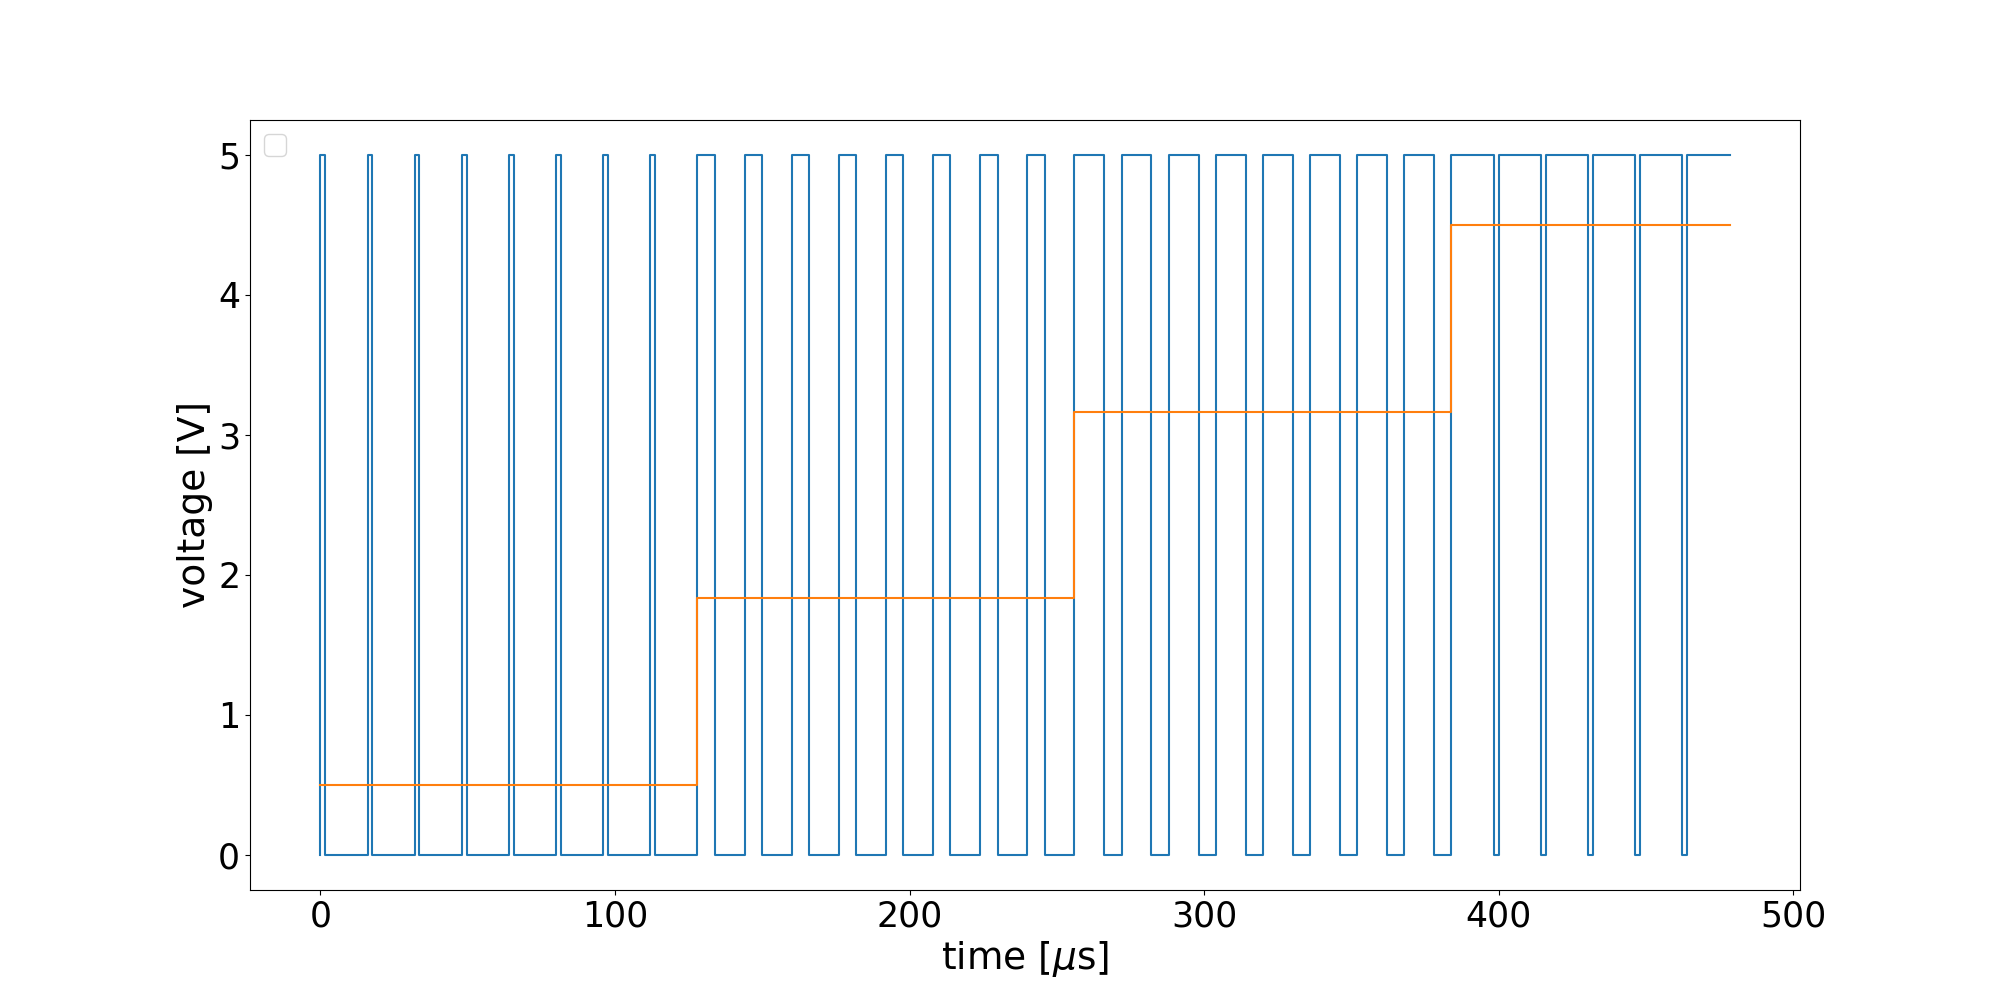
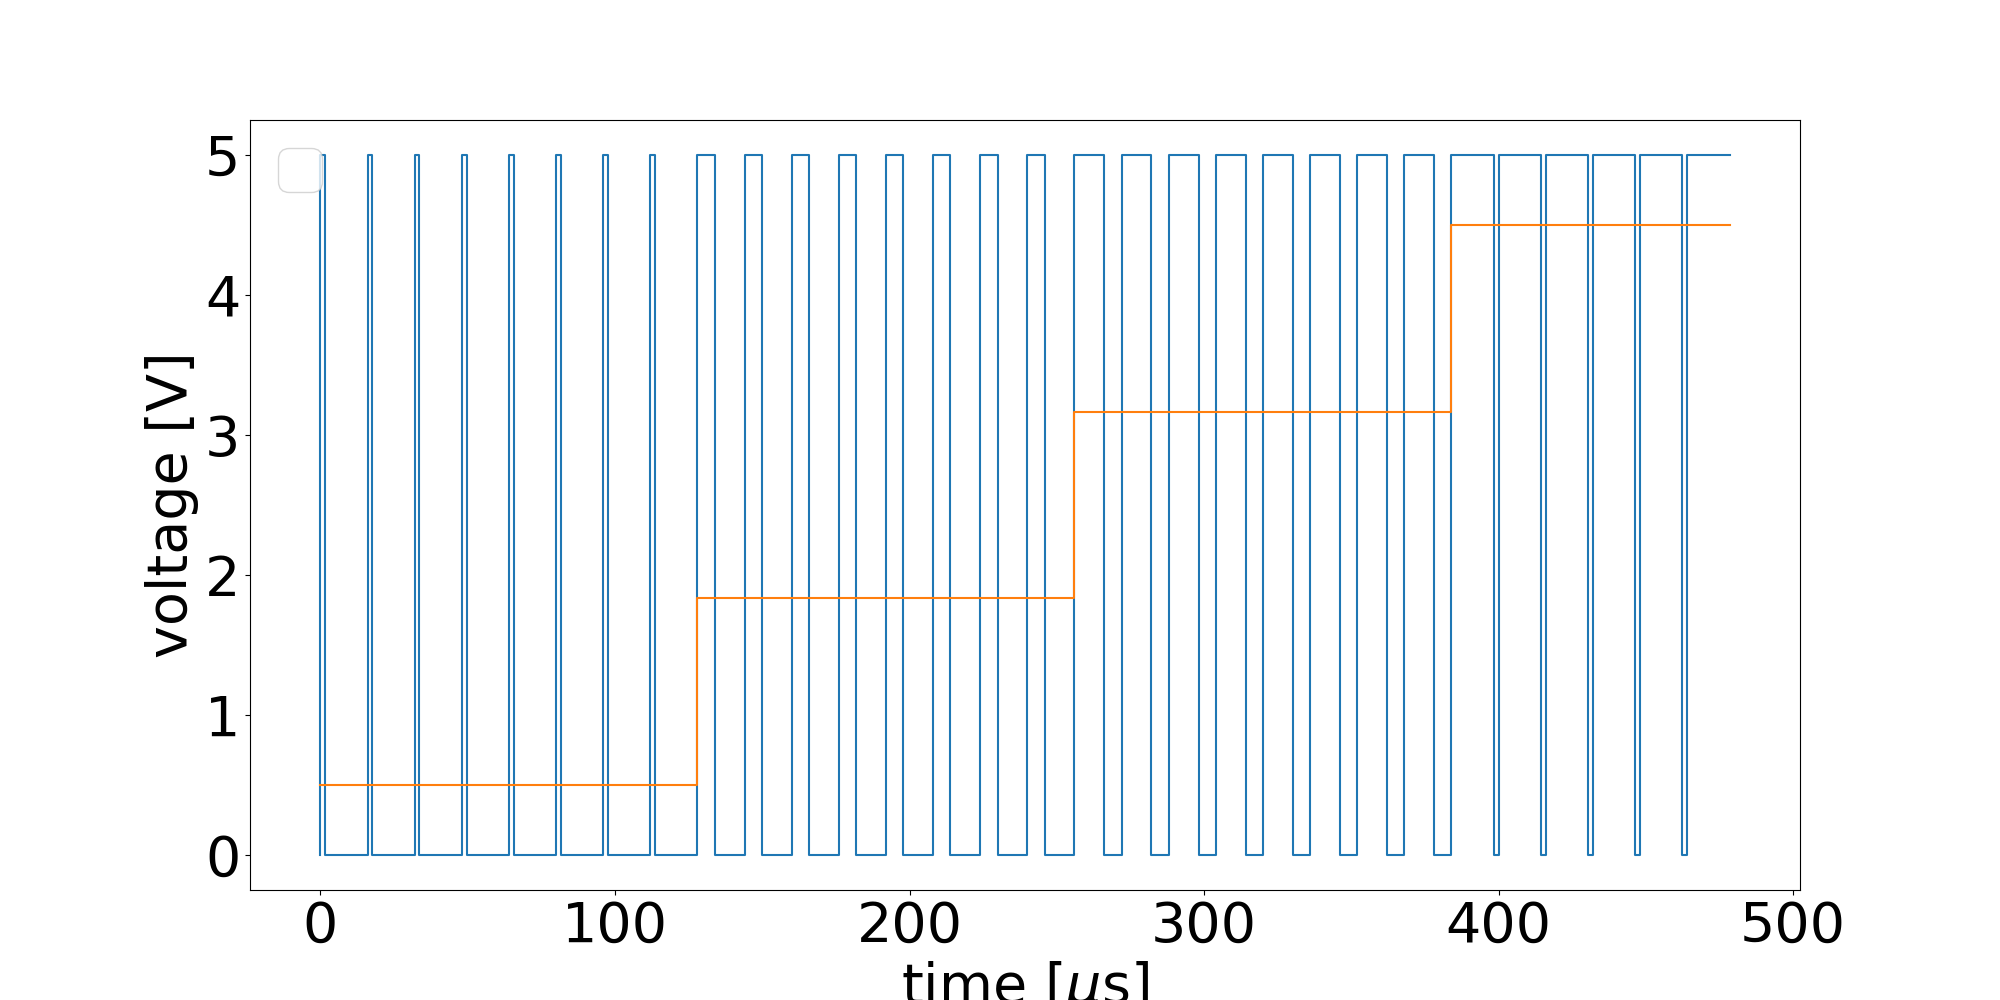
auto

diff --git a/chapters/4 - methods and results.tex b/chapters/4 - methods and results.tex
@@ -220,7 +220,7 @@ The LED illumination angle varies between $45^0-120^0$. Since emitted light is i
 \subsection{Arduino microcontroller}
 \begin{figure}[htbp]
 	\centering
-	\fbox{\includegraphics[scale=0.11]{\main/images/4 - methods and results/duty_cycle.png}}
+	\fbox{\includegraphics[scale=0.15]{\main/images/4 - methods and results/duty_cycle.png}}
 	\caption[The PWM analog voltage]{The PWM analog voltage}
 	\label{fig:duty_cycle}
 \end{figure}
@@ -294,7 +294,7 @@ It can be seen from eq.~\ref{eqn:Q} that when $Q<0$ the coupled noise power is l
 
 \begin{figure}[htbp]
 	\centering
-	\fbox{\includegraphics[scale=0.15]{\main/images/4 - methods and results/Q factor.png}}
+	\fbox{\includegraphics[scale=0.2]{\main/images/4 - methods and results/Q factor.png}}
 	\caption[The torsional pendulum Q factor]{The torsional pendulum Q factor}
 	\label{fig:Q factor}
 \end{figure} 

diff --git a/python/dutycycle.py b/python/dutycycle.py
@@ -5,12 +5,12 @@ import matplotlib.pyplot as plt
 
 def fonts_define(xtitle,ytitle,lgd,font=25):
     plt.figure(figsize=(20,10))
-    plt.xlabel(xtitle, fontsize=font+2)
-    plt.ylabel(ytitle, fontsize=font+2)
+    plt.xlabel(xtitle, fontsize=font)
+    plt.ylabel(ytitle, fontsize=font)
     plt.rc('xtick', labelsize=font) 
     plt.rc('ytick', labelsize=font)
-    plt.legend(lgd,loc=2, prop={'size': 20})
-fonts_define('time [$\mu$s]','voltage [V]',['Digital voltage','Analog voltage'],font=25)
+    plt.legend(lgd,loc=2, prop={'size': font})
+fonts_define('time [$\mu$s]','voltage [V]',['Digital voltage','Analog voltage'],font=40)
 
 
 
